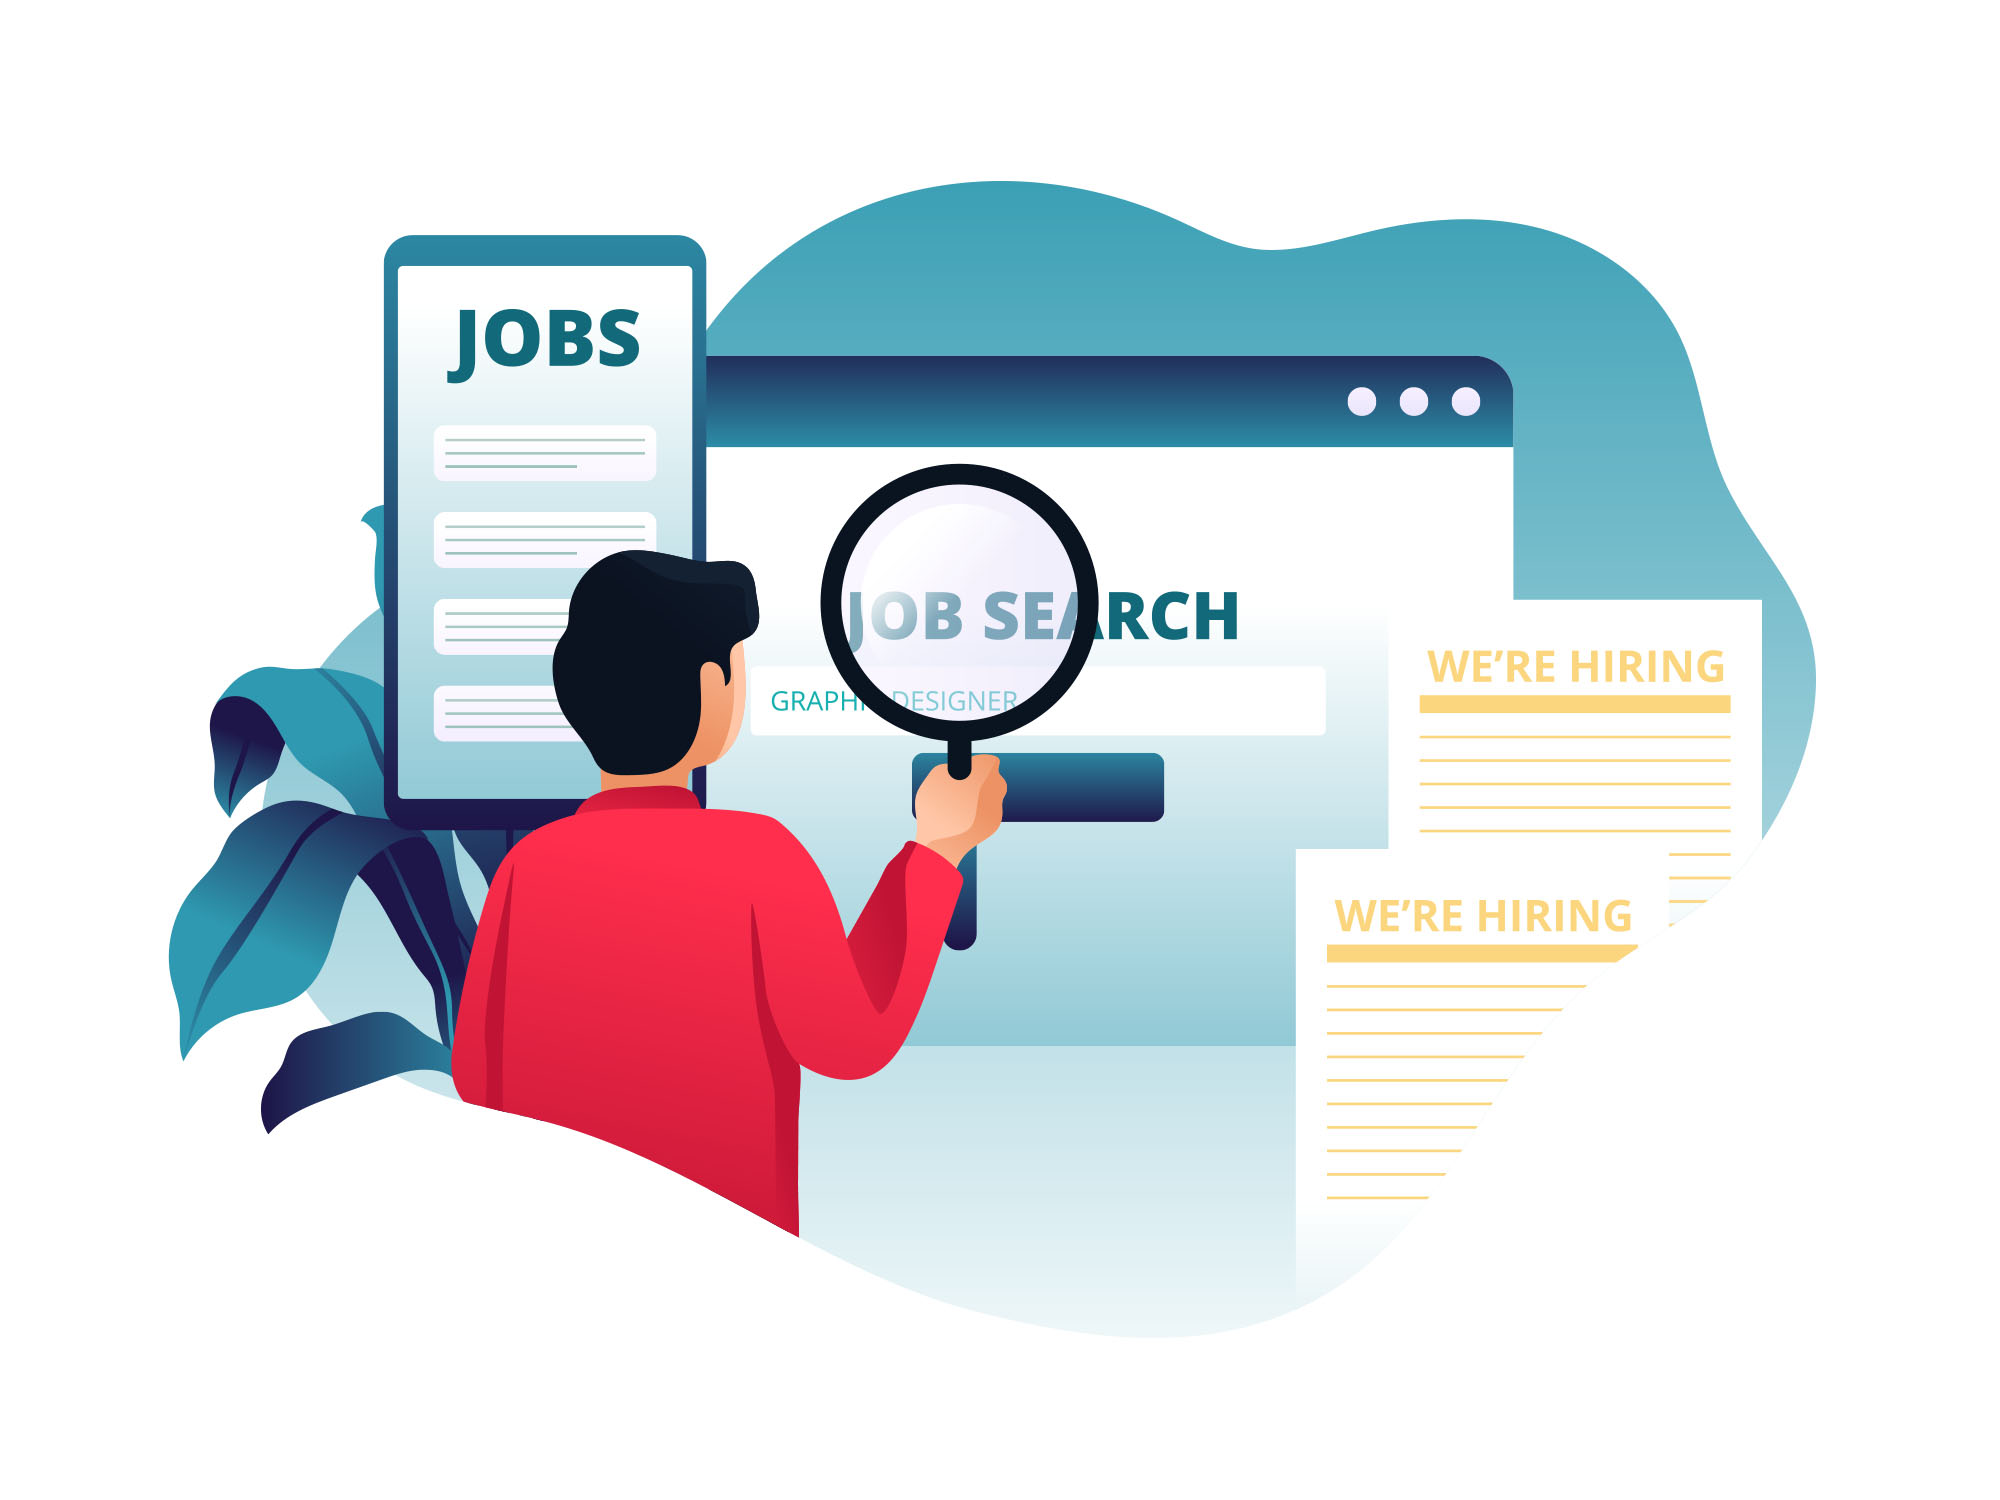
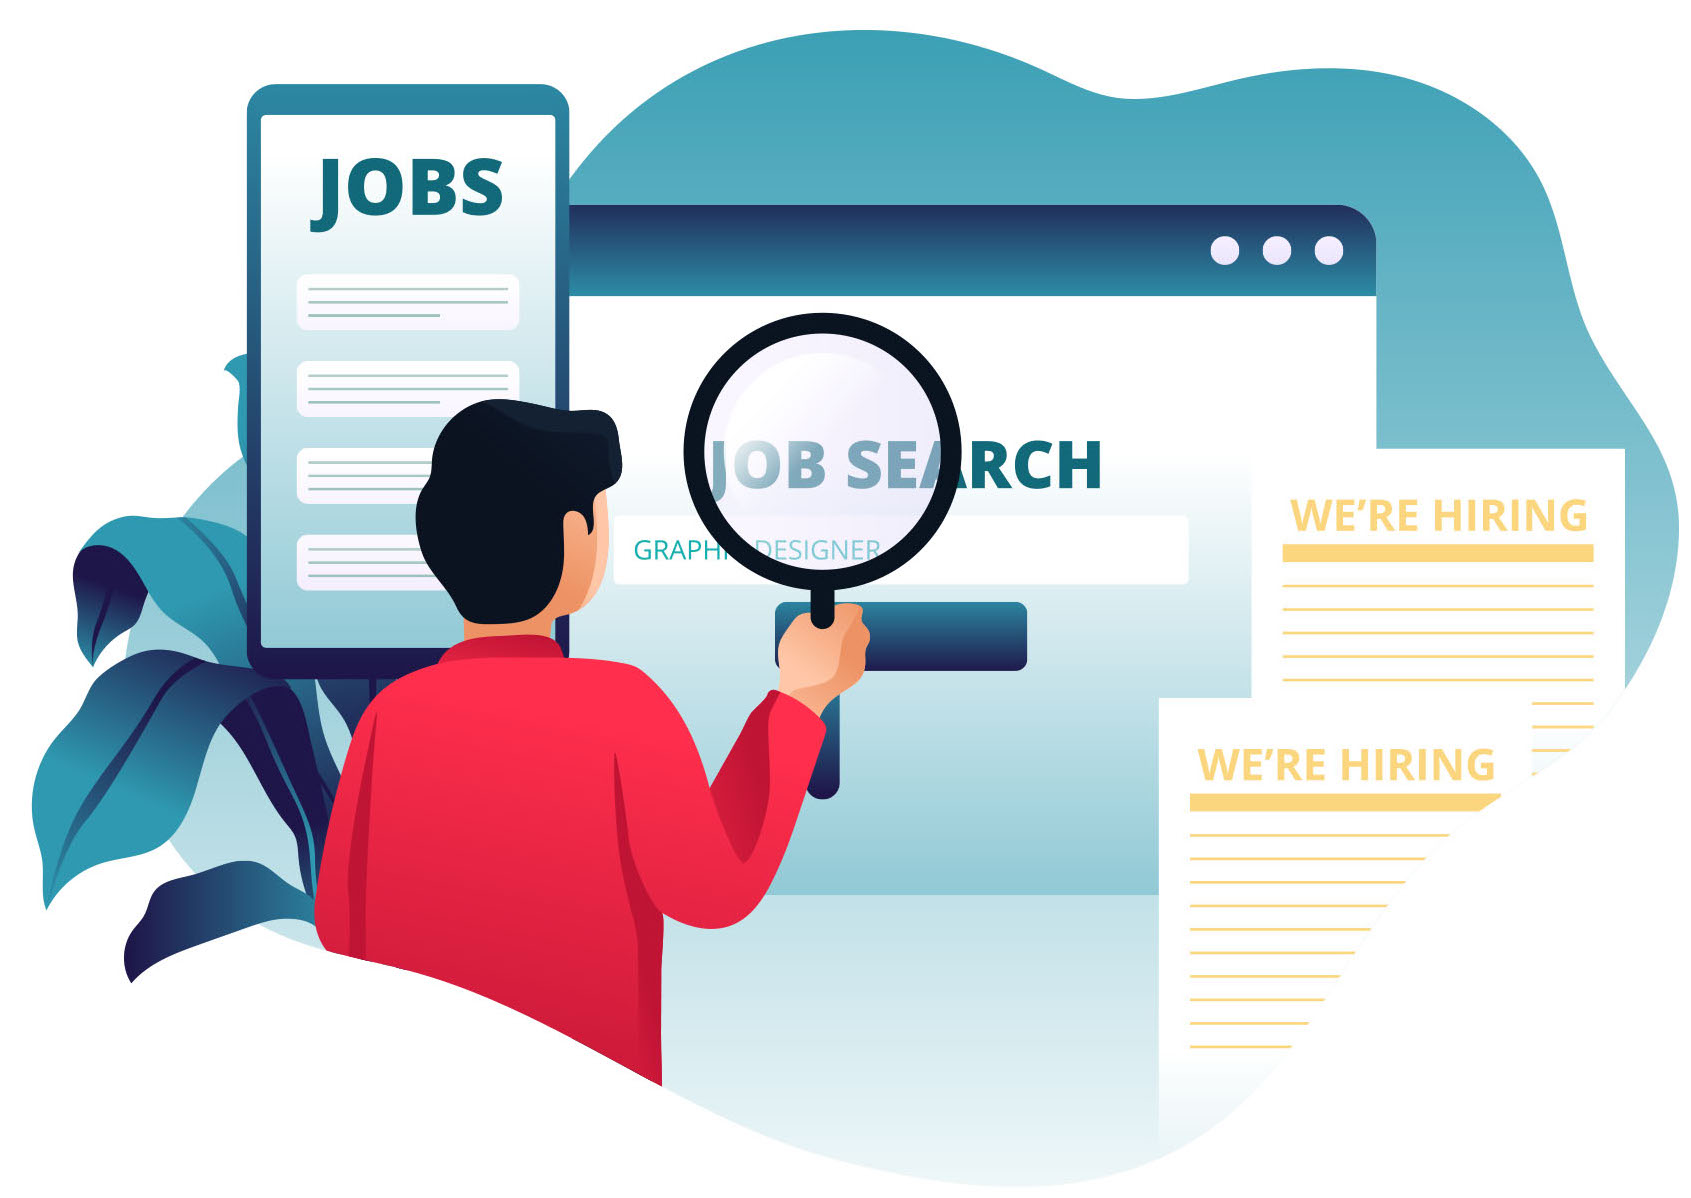
Changed data

diff --git a/client/src/pages/user/CompanyEditModal.tsx b/client/src/pages/user/CompanyEditModal.tsx
@@ -38,7 +38,6 @@ const CompanyEditModal = ({setShowModal, status,name, jobtype,link,description,c
         description,
         seeker_id: seeker!.seeker_id!
     })
-    console.log(editCompanyData)
 
     const companyDataHandler = (e: React.ChangeEvent<HTMLInputElement> | React.ChangeEvent<HTMLTextAreaElement>) => {
         setEditCompanyData({...editCompanyData, [e.target.name]: e.target.value});
@@ -46,7 +45,6 @@ const CompanyEditModal = ({setShowModal, status,name, jobtype,link,description,c
 
     const sendEditData = (e: React.MouseEvent<HTMLButtonElement>) => {
         e.preventDefault();
-        console.log(editCompanyData)
         editCompany(company_id, editCompanyData)
         setShowModal(false)
     }
@@ -63,7 +61,7 @@ const CompanyEditModal = ({setShowModal, status,name, jobtype,link,description,c
                         type={"text"}
                         title={"company name"}
                         name={"name"}
-                        value={editCompanyData.name!}
+                        value={editCompanyData.name || ""}
                         placeholder={"company name"}
                         onChange={companyDataHandler}
                     />
@@ -72,7 +70,7 @@ const CompanyEditModal = ({setShowModal, status,name, jobtype,link,description,c
                             type={"text"}
                             title={"job type"}
                             name={"jobtype"}
-                            value={editCompanyData.jobtype!}
+                            value={editCompanyData.jobtype! || ""}
                             placeholder={"job type"}
                             onChange={companyDataHandler}
                         />
@@ -83,7 +81,7 @@ const CompanyEditModal = ({setShowModal, status,name, jobtype,link,description,c
                     type={"text"}
                     title={"job post link"}
                     name={"link"}
-                    value={editCompanyData.link!}
+                    value={editCompanyData.link! || ""}
                     placeholder={"job post link"}
                     onChange={companyDataHandler}
                 />
@@ -93,7 +91,7 @@ const CompanyEditModal = ({setShowModal, status,name, jobtype,link,description,c
                         type={"text"}
                         title={"salary"}
                         name={"salary"}
-                        value={editCompanyData.salary!}
+                        value={editCompanyData.salary! || ""}
                         placeholder={"salary"}
                         onChange={companyDataHandler}
                     />
@@ -110,7 +108,7 @@ const CompanyEditModal = ({setShowModal, status,name, jobtype,link,description,c
                         type={"text"}
                         title={"company size"}
                         name={"company_size"}
-                        value={editCompanyData.company_size!}
+                        value={editCompanyData.company_size! || ""}
                         placeholder={"company size"}
                         onChange={companyDataHandler}
                     />
@@ -120,7 +118,7 @@ const CompanyEditModal = ({setShowModal, status,name, jobtype,link,description,c
                 <Text_field_lg
                     name={"description"}
                     onChange={companyDataHandler}
-                    value={editCompanyData.description!}
+                    value={editCompanyData.description! || ""}
                 />
                 <div className="flex justify-end gap-2 mt-4">
                     <Button_sm

diff --git a/client/src/components/context/companyContext.tsx b/client/src/components/context/companyContext.tsx
@@ -16,6 +16,8 @@ type Props = {
 type companyContext = {
     companies: Company[],
     allCompanies: Company[] | null,
+    companyChange: boolean,
+    setCompanyChange: React.Dispatch<React.SetStateAction<boolean>>;
     setCompanies: React.Dispatch<React.SetStateAction<Company[]>>;
     locationData: any[],
     setLocationData: React.Dispatch<React.SetStateAction<any[]>>;
@@ -38,13 +40,14 @@ export const useCompanyContext = () => {
 
 export const CompanyProvider = ({children}: Props) => {
     const [companies, setCompanies] = useState<Company[]>([]);
-    const { setLoadingSeeker} = useSeekerContext()
+    const [companyChange, setCompanyChange] = useState<boolean>(false)
+    const { setLoadingSeeker, loadingSeeker } = useSeekerContext()
     const [locationData, setLocationData] = useState<any[]>([])
     const [allCompanies, setAllCompanies] = useState<Company[]|null>(null);
     const [cookies] = useCookies();
     const [filteredChildren, setFilteredChildren] = useState<string>("");
     const [showPage, setShowPage] = useState<string>("Interested");
-    const navigate = useNavigate();
+
 
     const getLat = (location : string) => {
         let lat = location.split(":")[1]
@@ -90,7 +93,7 @@ export const CompanyProvider = ({children}: Props) => {
                 withCredentials : true
             })
             await setCompanies(res.data.companiesWithStatus);
-            await setLoadingSeeker(false)
+
         } catch (err: any) {
             console.log(err)
         }
@@ -107,9 +110,7 @@ export const CompanyProvider = ({children}: Props) => {
                     authorization: `Bearer ${cookies.JWT_TOKEN}`
                 }
             })
-            console.log(res.data)
-            window.location.reload();
-            navigate("/user", {replace: true});
+
         } catch (err: any) {
             console.log(err.message);
         }
@@ -126,8 +127,7 @@ export const CompanyProvider = ({children}: Props) => {
                     authorization: `Bearer ${cookies.JWT_TOKEN}`
                 }
             })
-            console.log(res.data)
-            window.location.reload();
+            setLoadingSeeker(!loadingSeeker)
         } catch (err: any) {
             console.log(err)
         }
@@ -144,7 +144,7 @@ export const CompanyProvider = ({children}: Props) => {
                     authorization: `Bearer ${cookies.JWT_TOKEN}`
                 }
             })
-            window.location.reload();
+
         } catch (err: any) {
             console.log(err.message)
         }
@@ -156,6 +156,8 @@ export const CompanyProvider = ({children}: Props) => {
                 setCompanies,
                 allCompanies,
                 locationData,
+                companyChange,
+                setCompanyChange,
                 setLocationData,
                 getCompanies,
                 getCompaniesByStatus,

diff --git a/client/src/pages/Hero.tsx b/client/src/pages/Hero.tsx
@@ -8,8 +8,8 @@ const Hero: React.FunctionComponent = () => {
 
     return (
         <main className="wrapper">
-            <div className="lg:grid lg:grid-cols-2 p-6 items-centers mt-32">
-                <img src={hero_top} alt="job-search" className="block max-w-[80%] mx-auto"/>
+            <div className="lg:grid lg:grid-cols-2 p-6 items-centers my-28 lg:my-32">
+                <img src={hero_top} alt="job-search" className="block max-w-[90%] mx-auto"/>
                 <div className="text-center">
                     <h3 className="text-3xl font-bold">Make your job hunting</h3>
                     <h1 className="text-5xl font-extrabold">smooth</h1>
@@ -29,16 +29,16 @@ const Hero: React.FunctionComponent = () => {
                     </div>
                 </div>
             </div>
-            <div className="p-6 lg:grid lg:grid-cols-2 items-center">
+            <div className="p-6 lg:grid lg:grid-cols-2 items-center my-28 lg:my-32">
                 <h3 className="text-center text-3xl font-bold leading-loose">Designed for <span
                     className="text-5xl">anybody</span> who is in the middle of job hunting</h3>
-                <img src={calender} alt="job-search" className="block max-w-[70%] mx-auto"/>
+                <img src={calender} alt="job-search" className="block max-w-[75%] mx-auto"/>
             </div>
             <div
                 className="rounded-lg lg:grid lg:grid-cols-3 bg-content-blue text-white lg:w-screen lg:mx-[calc(50%-50vw)] 2xl:px-40">
-                < Description title={"Track your journy"}
-                              detail={"If you find a company that you are interested in, let's add a card to your list"}/>
-                < Description title={"Check your availability"}
+                < Description title={"Visualize the data"}
+                              detail={"Job seed supports you to organize your schedule and status of the companies you are interested in."}/>
+                < Description title={"Sort companies by its status"}
                               detail={"Use our SIM card with your unlocked Android or iPhone and get free cell phone coverage on one of the nation’s largest wireless networks. Stay connected anywhere in the U.S  without ever paying for a monthly phone bill.  "}/>
                 < Description title={"Get out of your location"}
                               detail={"Use our SIM card with your unlocked Android or iPhone and get free cell phone coverage on one of the nation’s largest wireless networks. Stay connected anywhere in the U.S  without ever paying for a monthly phone bill.  "}/>

diff --git a/client/src/components/features/user/CompanyCard.tsx b/client/src/components/features/user/CompanyCard.tsx
@@ -1,4 +1,4 @@
-import React, {useState} from 'react';
+import React, {useEffect, useState} from 'react';
 import {BsTrash} from "react-icons/bs";
 import {AiOutlineLink} from "react-icons/ai";
 import {IoMdCreate} from "react-icons/io";
@@ -9,18 +9,18 @@ import CompanyEditModal from "../../../pages/user/CompanyEditModal";
 import {company_status} from "../../../types/Company";
 import {useSeekerContext} from "../../context/seekerContext";
 import {useCompanyContext} from "../../context/companyContext";
+import {Simulate} from "react-dom/test-utils";
+import load = Simulate.load;
 
 
 const CompanyCard = ({name, jobtype, status, link, company_id, description, location, company_size, seeker_id, salary}: Company) => {
     const [showScheduleModal, setShowScheduleModal] = useState<boolean>(false)
     const [showEditModal, setShowEditModal] = useState<boolean>(false)
     const [showStatusDropDown, setShowStatusDropDown] = useState<boolean>(false)
-    const {seeker} = useSeekerContext()
-    const {deleteCompany, showPage, editCompany} = useCompanyContext()
+    const {seeker, setLoadingSeeker, loadingSeeker} = useSeekerContext()
+    const {deleteCompany, showPage, editCompany, companies} = useCompanyContext()
 
-    console.log(name,jobtype, status, link, company_id, description, location, company_size, seeker_id, salary)
-
-    const scheduleModalHandler = (e: React.MouseEvent<HTMLElement>) => {
+     const scheduleModalHandler = (e: React.MouseEvent<HTMLElement>) => {
         e.preventDefault();
         showScheduleModal ? setShowScheduleModal(false) : setShowScheduleModal(true)
     }
@@ -46,6 +46,10 @@ const CompanyCard = ({name, jobtype, status, link, company_id, description, loca
         console.log(editStatusCompany)
         editCompany(company_id!, editStatusCompany)
     }
+
+    useEffect(() => {
+        console.log("HI")
+    }, [companies])
 
     const filteredStatus = () => {
         const filteredArr = company_status.filter(status => status !== showPage)

diff --git a/client/src/components/context/seekerContext.tsx b/client/src/components/context/seekerContext.tsx
@@ -50,7 +50,6 @@ export const SeekerProvider = ({children}: Props) => {
             setCookie("JWT_TOKEN", res.data.token);
             setCookie("seeker_id", res.data.seeker_id)
             setSeeker(newUser!)
-            navigate("/user", {replace: true});
         } catch (e: any) {
             console.log(e);
         }
@@ -68,6 +67,7 @@ export const SeekerProvider = ({children}: Props) => {
             setCookie("JWT_TOKEN", res.data.token);
             setCookie("seeker_id", res.data.seeker.seeker_id)
             setSeeker(res.data.seeker)
+            setLoadingSeeker(false)
             navigate("/user", {replace: true});
         } catch (e: any) {
             console.log(e)
@@ -101,7 +101,6 @@ export const SeekerProvider = ({children}: Props) => {
                     authorization: `Bearer ${cookies.JWT_TOKEN}`
                 }
             })
-            console.log(res.data)
             setSeeker(res.data.seeker)
         } catch (e : any) {
             console.log(e.message)

diff --git a/client/src/App.tsx b/client/src/App.tsx
@@ -30,13 +30,13 @@ function App() {
     }
 
     useEffect(() => {
-        console.log("App", companies)
         if (seeker_id !== undefined) {
             getSeekerData(seeker_id)
             getCompanies(seeker_id)
             getCompaniesByStatus(seeker_id, "Interested")
+            setLoadingSeeker(false)
         }
-    }, [])
+    }, [loadingSeeker])
 
 
     return (
@@ -46,7 +46,6 @@ function App() {
                 <Route path="/" element={<Hero/>}/>
                 <Route path="/signup" element={<Signup/>}/>
                 <Route path="/login" element={<Login/>}/>
-                {}
                 <Route element={<ProtectRoutes/>}>
                     <Route path="/user" element={<><TopPage/><Outlet/></>}>
                         <Route path="interested" element={<Interested/>}/>

diff --git a/client/src/components/features/user/GooglePlace.tsx b/client/src/components/features/user/GooglePlace.tsx
@@ -30,8 +30,6 @@ const GooglePlace = ({location, companyData, setLocation, setCompanyData}: locat
         clearSuggestions();
     });
 
-    console.log(location)
-
     const handleInput = (e: React.FormEvent<HTMLInputElement>) => {
         setValue(e.currentTarget.value);
     };
@@ -45,7 +43,6 @@ const GooglePlace = ({location, companyData, setLocation, setCompanyData}: locat
                     const {lat, lng} = getLatLng(results[0]);
                     setLocation({lat: Number(lat),lng: Number(lng)})
                     setCompanyData({...companyData, location: {lat: Number(lat),lng: Number(lng)}});
-                    console.log("📍 Coordinates: ", { lat, lng });
                 });
             };
     const renderSuggestions = () =>

diff --git a/client/src/components/features/ProtectRoutes.tsx b/client/src/components/features/ProtectRoutes.tsx
@@ -7,18 +7,14 @@ import seeker from "../../data/Seeker";
 const ProtectRoutes = () => {
     const [cookie] = useCookies();
     const {seeker, loadingSeeker, setLoadingSeeker} = useSeekerContext()
-    //
     const pageNav = () => {
-
         if (cookie.JWT_TOKEN && !seeker && loadingSeeker) {
-            return <h1>Loading....</h1>
+            return <h1>Loading.</h1>
         } else if (cookie.JWT_TOKEN && seeker) {
-            // setLoadingSeeker(false)
             return <Outlet/>
         } else return < Navigate to={"/"}/>
 
     }
-    // return (seeker ? <Outlet/> : < Navigate to={"/home"}/>)
     return pageNav()
 };
 

diff --git a/client/src/components/context/scheduleContext.tsx b/client/src/components/context/scheduleContext.tsx
@@ -85,7 +85,11 @@ export const ScheduleProvider = ({children}: Props) => {
         try {
             await axios({
                 method: "delete",
-                url: `http://localhost:8080/schedules/${schedule_id}`
+                url: `http://localhost:8080/schedules/${schedule_id}`,
+                withCredentials: true,
+                headers: {
+                    authorization: `Bearer ${cookies.JWT_TOKEN}`
+                }
             })
         } catch (err: any) {
             console.log(err.message)

diff --git a/client/src/pages/Login.tsx b/client/src/pages/Login.tsx
@@ -29,7 +29,7 @@ const Login = () => {
     });
 
     const OnSuccess = (res: any) => {
-        console.log(res.profileObj.imageUrl)
+
         setSeeker({
             seeker_id: res.profileObj.googleId,
             name: res.profileObj.name,
@@ -37,6 +37,8 @@ const Login = () => {
             avatar: res.profileObj.imageUrl
         })
         setCookie("JWT_TOKEN", res.accessToken);
+
+        console.log(res)
         navigate("/user", {replace: true});
     }
 

diff --git a/client/src/components/features/HamburgerMenu.tsx b/client/src/components/features/HamburgerMenu.tsx
@@ -77,7 +77,7 @@ const HamburgerMenu = ({isOpen, setMenuOpen}: Props) => {
                     <IoCloseOutline color={"white"} size={30}/>
                 </div>
                 <ul>
-                    {cookies.JWT_TOKEN ?
+                    {cookies.JWT_TOKEN && cookies.seeker_id ?
                         links.map(link =>
                             <li
                                 key={link.name}

diff --git a/client/src/pages/user/Top.tsx b/client/src/pages/user/Top.tsx
@@ -29,8 +29,6 @@ const TopPage = () => {
     const [childComponent, setChildComponent] = useState<ReactNode>(<Interested/>)
     const {seeker, loadingSeeker, setLoadingSeeker} = useSeekerContext();
     const [cookies] = useCookies();
-    const {getSeekerData} = useSeekerContext()
-    const [cookie] = useCookies();
 
     useEffect(() => {
         // getCompanies(seeker!.seeker_id!)
